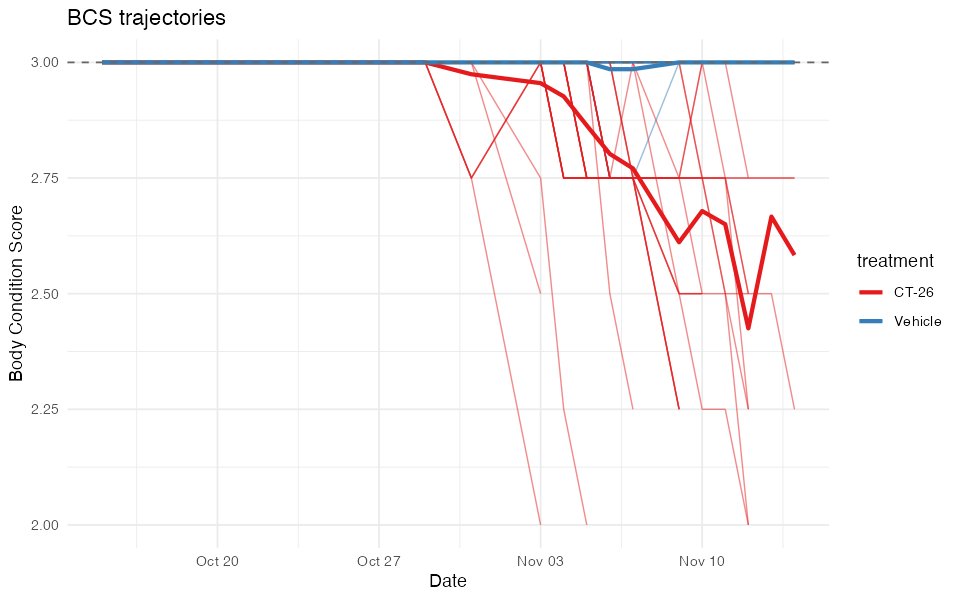
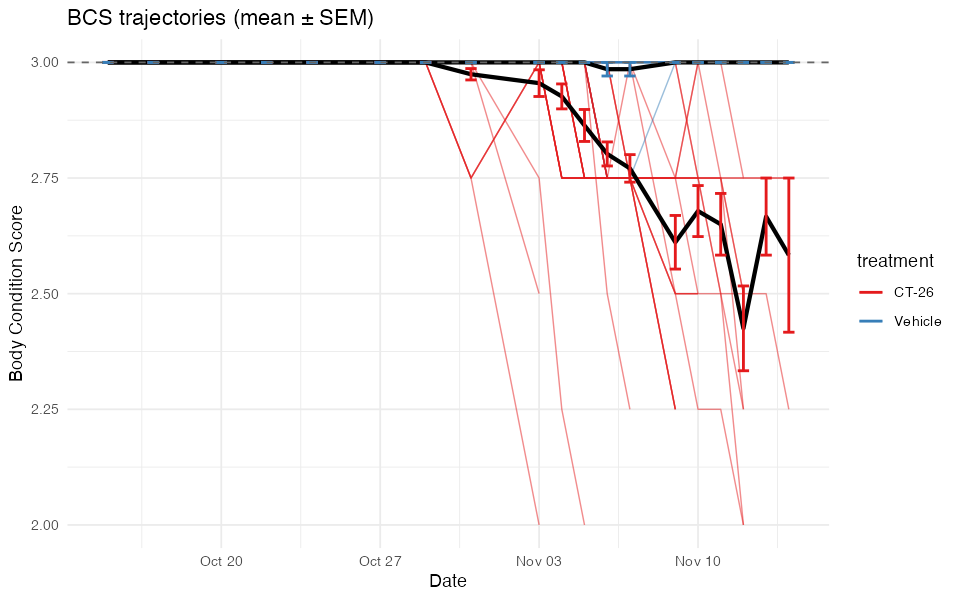
Address PR feedback: improve script, use BCS SEM image
- Refactor generate_readme_images.R with better structure and error handling
- Replace BCS trajectories with mean ± SEM variant (different visualization)
- Add README instructions for regenerating images

diff --git a/README.md b/README.md
@@ -8,7 +8,7 @@ Interactive R/Shiny dashboard for analyzing cachexia study data: human scoring (
 
 The dashboard produces several key visualizations from the study data:
 
-**BCS trajectories** — Body Condition Score over time by animal, colored by treatment (CT-26 vs Vehicle), with group mean lines. Dashed line at BCS = 3 indicates a common cachexia threshold.
+**BCS trajectories (mean ± SEM)** — Body Condition Score over time with group mean lines and standard error bars. Colored by treatment (CT-26 vs Vehicle). Dashed line at BCS = 3 indicates a common cachexia threshold.
 
 ![BCS trajectories](images/bcs_trajectories.png)
 
@@ -19,6 +19,8 @@ The dashboard produces several key visualizations from the study data:
 **BCS survival (time to BCS &lt; 3)** — Kaplan–Meier curve showing time until first BCS below threshold. Vehicle = blue circles, CT-26 = red squares.
 
 ![BCS survival](images/bcs_survival.png)
+
+To regenerate these images after data or analysis changes: run `Rscript generate_readme_images.R` from the project root.
 
 ---
 
